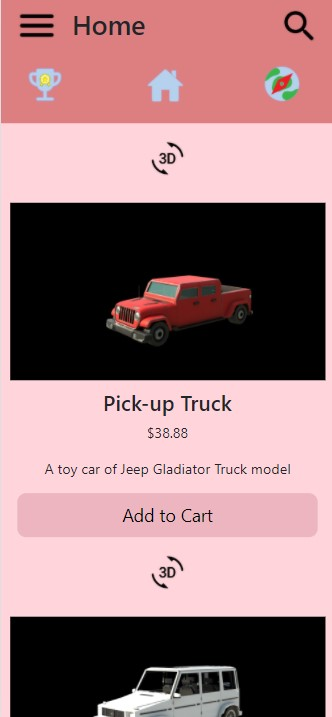
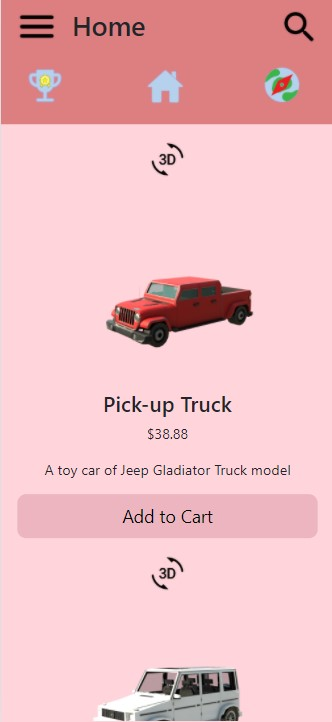
Update truck img

diff --git a/html/cartpage.html b/html/cartpage.html
@@ -131,7 +131,7 @@
               />
               <img
                 class="cartproductimg"
-                src="../img/truck_still_image.png"
+                src="../img/truck_img.png"
                 alt="N/A"
               />
             </div>

diff --git a/html/checkoutpage.html b/html/checkoutpage.html
@@ -42,7 +42,7 @@
       <div class="productcheckout">
         <img
           class="floatleft productcheckoutimg"
-          src="../img/truck_still_image.png"
+          src="../img/truck_img.png"
           alt=""
         />
         <div>
